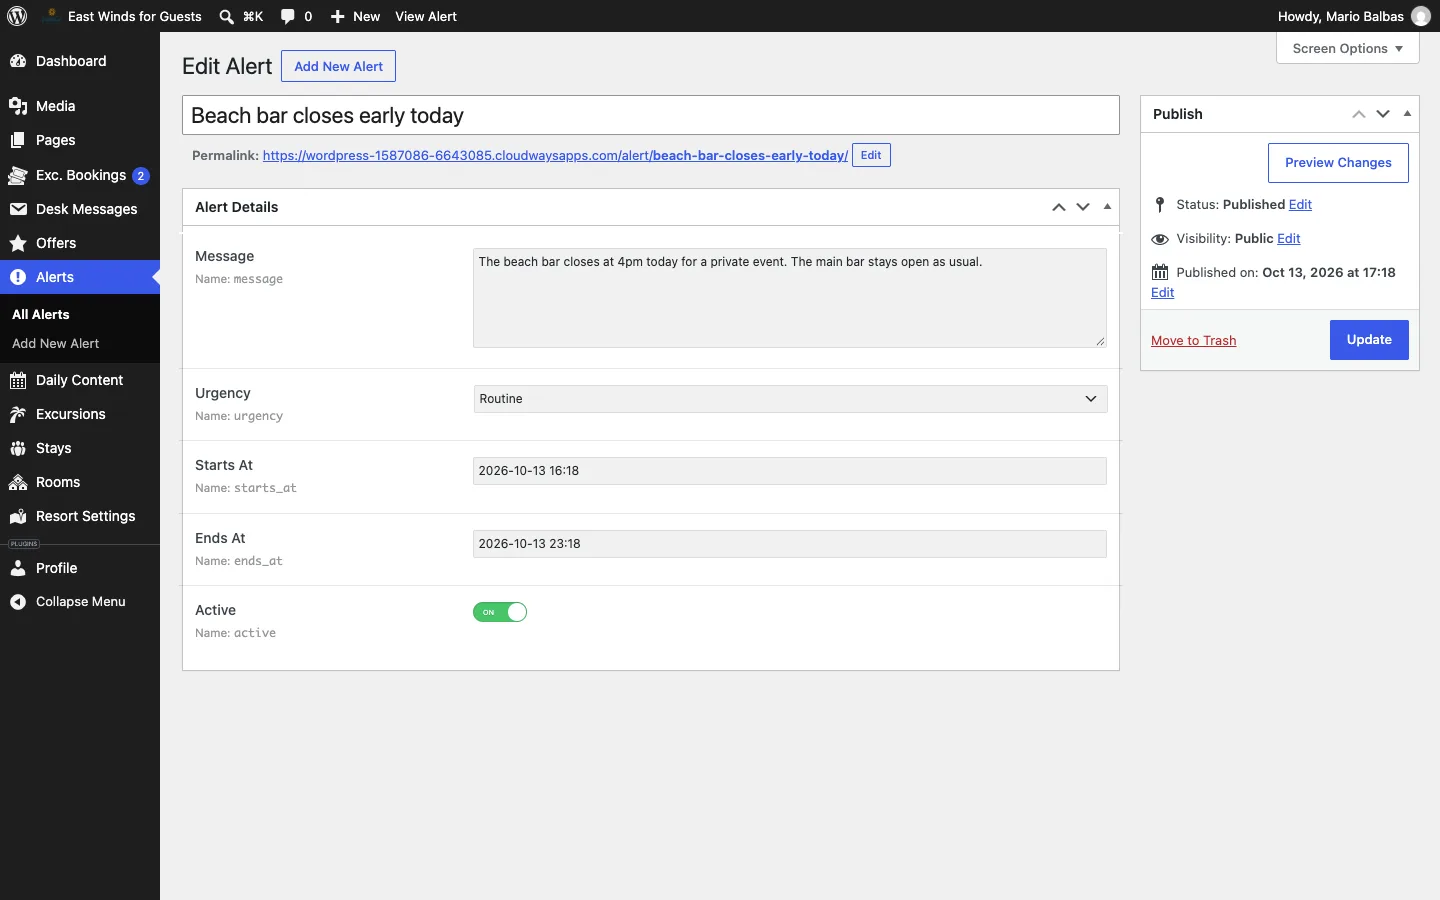
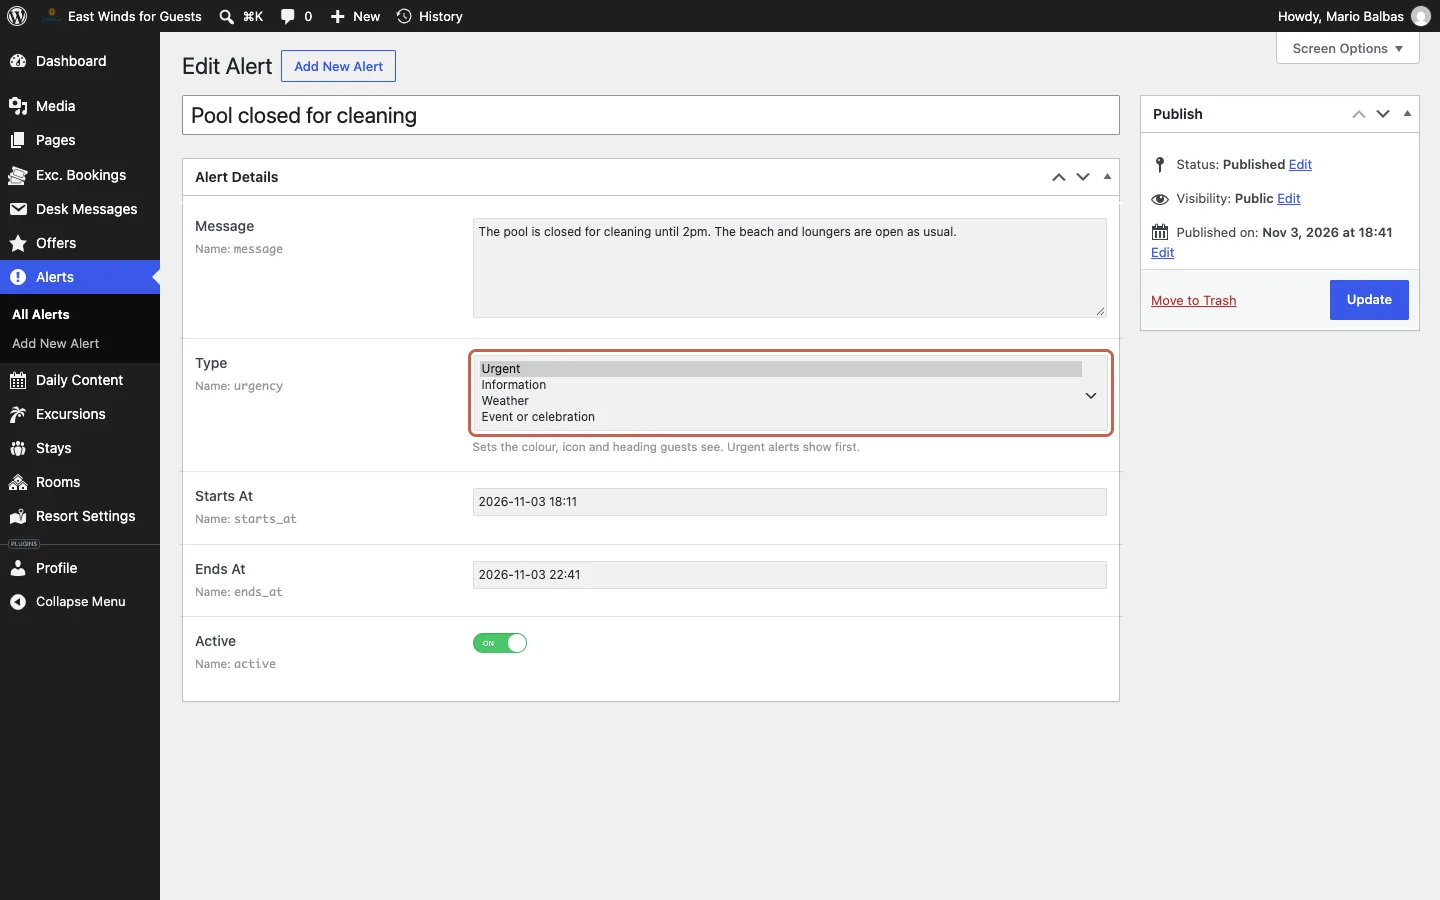
Alert types in the manual; Phase 1 modules in the project context
The Alerts section explains the new Type field (Urgent, Information, Weather, Event or celebration), what guests see for each, and that up to three show at once, urgent first. Both screenshots retaken. dev/context.md documents weather.php, alerts.php, the skeleton transitions and back-button fix in page-transition.php, and migrations.php, which applies database changes after a file sync. Both languages.

diff --git a/dev/context.md b/dev/context.md
@@ -1,7 +1,7 @@
 # East Winds Resort — Guest App: Project Context
 
 **Client:** East Winds Resort, St Lucia · **Built by:** Hook & Ladder, inc. (H&L Digital)
-**Status:** Soft release live since 27 October 2026; development continues on staging · **Last updated:** 3 November 2026
+**Status:** Soft release live since 27 October 2026; Phase 1 (weather modal, screen skeletons, alert types) on staging · **Last updated:** 3 November 2026
 **Staging (this work):** `https://wordpress-1587086-6643085.cloudwaysapps.com` (Cloudways)
 **Production (live):** `https://guest.eastwinds.com` (a separate Cloudways app; Novamira is switched off there)
 **Staff manual:** <https://staffdocs.eastwinds.com> (this repository, `hookladder/docs-for-ewr-guest`)
@@ -121,14 +121,17 @@ Notifications for new booking requests and guest messages are emailed to the fro
 | `book.php` | My Bookings (status and decline reason) |
 | `resort.php` | Resort page sections and Island guide cards, all from Resort Settings |
 | `hosts.php` | Hosts page, "Say hello" messaging, Desk Messages unread tracking |
-| `offer.php`, `shortcodes-extra.php` | Offers, menus, weather, small app shortcodes |
-| `page-transition.php` | "Loading East Winds…" screen between page loads |
+| `offer.php`, `shortcodes-extra.php` | Offers, menus (one row per section, line breaks kept), the back button, small app shortcodes |
+| `weather.php` | One cached Open-Meteo forecast (+ Marine) feeds the Today badge and the weather modal: now, next 12 hours, 5 days, sunrise and sunset, sea. Metric in the data, °F/°C chosen by the guest and remembered on the phone. On failure it shows the last good result, never invented numbers |
+| `alerts.php` | `[ew_alerts]` on Today: active alerts inside their window, at most three, urgent first, one tone per type (urgent, weather, information, event), as a swipeable carousel |
+| `page-transition.php` | Skeleton of the destination screen while the next page loads (the tab bar stays on top), one navigation per back-button tap (a fast double tap used to skip a screen), and Speculation Rules prefetch on touch |
+| `migrations.php` | One-time database changes applied on the first admin load after a file sync (see 6.6) |
 | `admin-tweaks.php` | Removes Preview / View (button, permalink box, row action, admin-bar item) for menus, alerts and offers, which have no page of their own and are only shown inside other app screens |
 | `dev-tools-guard.php` | Treats anyone without `install_plugins` as staff. Hides the Novamira admin-bar switch, refuses Novamira's admin-post / AJAX actions, and refuses staff REST writes to developer tools: Novamira, MCP and the core Abilities API (which run PHP), AI proxies, the JetEngine builder, `/wp/v2/settings`, and Elementor or plugin settings. Role-GenX leaves admin-post, AJAX and REST alone, so this file covers them |
 | `security.php` | Answers signed-out visits to `/wp-admin` and `/wp-login.php` with WordPress's plain "Access denied" (403) instead of an app page; keeps stays unlisted (out of REST, search and sitemaps; an old stay slug never redirects to a rotated token), hides usernames from visitors (REST users, author archives), sends Referrer-Policy, nosniff, X-Frame-Options and HSTS, and disables the file editors |
 
 ### 4.4 Data model (JetEngine)
-- **CPTs:** `stay`, `room`, `excursion`, `ew_exc_booking` (private), `ew_desk_message` (private), `daily-content`, `offer`, `alert`.
+- **CPTs:** `stay`, `room`, `excursion`, `ew_exc_booking` (private), `ew_desk_message` (private), `daily-content`, `offer`, `alert` (its `urgency` meta is shown to staff as **Type**: `urgent`, `routine` = Information, `weather`, `event`).
 - **Taxonomy:** `excursion_category`, **hierarchical**. *Spa & Wellness* has the treatment sub-categories; being in one of those children is what makes an item a "spa treatment".
 - **Options page:** `resort-settings` (all resort-wide content).
 - **Key meta:** stay dates, token and `staff_preview` (switcher; added to the JetEngine meta box from code, see `booking-engine.php`) on `stay`; `is_preview` on bookings and desk messages that come from a preview stay; `recurrence_mode`, `schedule_date`, `spots_available` (the capacity staff edit; legacy hidden `capacity` is only a fallback), `price`, `excursion_type` on `excursion`; `status`, `guests_count`, `decline_reason` on bookings; `content_date`, `meal` on daily content (`breakfast`, `lunch`, `afternoon_tea`, `dinner`; labels and service windows in `ew_meals()` / `ew_meals_now()` in `shortcodes-extra.php`). One menu per meal per day; Afternoon Tea shows from 11:00 alongside lunch and is served at the time set in Resort Settings. Menus are written one repeater row per section (*Dish Name* = section, *Description* = one dish per line); the description is shown with `white-space: pre-line`, so the line breaks staff type are kept.
@@ -191,7 +194,7 @@ The live version is a different Cloudways app from this staging site, so nothing
 - **Test stays:** Judith Tester, Mario Balbas and Ali Leon are kept for testing and were re-dated to 3–10 November 2026; *Judith Milne* is a stay created by the resort team. **Team Preview** is the stay the staff install on their phones to check the UI. Menus follow the resort's real entries. Re-date rather than duplicate (convention 7). The H&L administrator account used before 15 October was replaced by a new H&L team account on that date.
 
 ### 6.6 Deploying to the live app
-Development happens on staging; Ali deploys with a Cloudways **file** sync (staging → live, *Web Application Files* only, never the database, which would overwrite the resort's real content). So every change must live in the plugin's files: settings or JetEngine fields that a feature needs are created from code on first admin load (as the `staff_preview` field is), not by hand in the database.
+Development happens on staging; Ali deploys with a Cloudways **file** sync (staging → live, *Web Application Files* only, never the database, which would overwrite the resort's real content). So every change must live in the plugin's files. Whatever a feature needs in the database (a JetEngine field, an Elementor template edit) is written as a one-time migration in `migrations.php`: it runs on the first admin page load after the sync, backs up what it changes (`ew_backup_migration_*`), is idempotent, and is recorded in `ew_migrations_done`. Current migrations: the Excursion Single back button (template 183), the alert **Type** field, and the Today alert grid replaced by `[ew_alerts]` (template 234). The `staff_preview` stay field is added the same way from `booking-engine.php`.
 
 ---
 

diff --git a/kw/alerts.md b/kw/alerts.md
@@ -1,18 +1,29 @@
 # Alèt
 
-On alèt sé on ti nòt kout envité ka wè asou ékwan **Today**-la, pa égzanp pisin-lan fèmé, manjé aswè ka fèt an on lòt koté, oben on avètisman pou tan-an.
+On alèt sé on ti nòt kout envité ka wè asou ékwan **Today**-la, pa égzanp pisin-lan fèmé, manjé aswè ka fèt an on lòt koté, oben on avètisman pou tan-an. Chak alèt ni on **Type**, ki ka chwazi koulè'y, ikòn li épi tit li.
 
-<figure class="phone"><img src="assets/img/app-alert.webp" alt="On alèt asou ékwan Today app envité-a"><figcaption>On alèt kon envité ka wè'y.</figcaption></figure>
+<figure class="phone"><img src="assets/img/app-alert.webp" alt="On alèt asou ékwan Today app envité-a"><figcaption>On alèt urgent kon envité ka wè'y. Lè ni plis ki yonn, pwochen-an ka paèt asou bò-a épi envité ka glisé pou wè'y.</figcaption></figure>
 
 ## Mété on alèt
 
 1. Ay asou **Alerts → Add New Alert**.
 2. Ékwi on **tit** kout, pa égzanp “Beach bar closes early today”. Tit-la sé pou ékip-la: envité pa ka wè'y.
-3. Adan **Message**, ékwi yon oben dé fwaz: sa ki ka fèt, kilè, épi sa envité-a sa fè olyé. Sé tèks-sala envité ka wè, anba *Property notice*.
-4. Chwazi **Urgency**-la: *Urgent* pou sékirité épi bagay ki ka touché tout moun kounyé-a, *Routine* pou tout lòt bagay.
+3. Adan **Message**, ékwi yon oben dé fwaz: sa ki ka fèt, kilè, épi sa envité-a sa fè olyé. Sé tèks-sala envité ka wè, anba tit kalité li.
+4. Chwazi **Type**-la (gadé tab-la anba-a).
 5. Mété **Starts At** épi **Ends At**. Alèt-la ka paèt sèlman ant dé moman-sa.
 6. Limen **Active**, épi pézé **Publish**.
 
 <figure><img src="assets/img/alert-edit.webp" alt="Bwat on alèt"><figcaption>Ou ka ékwi on alèt.</figcaption></figure>
+
+## Kalité alèt
+
+| Type | Envité ka wè | Sèvi'y pou |
+|---|---|---|
+| **Urgent** | Kat koray, ikòn **!**, tit *Urgent notice* | Sékirité, oben on bagay ki fèmé ki ka touché tout moun kounyé-a |
+| **Information** | Kat blé, ikòn **i**, tit *Good to know* | Chanjman lè oben koté, nòt pwatik |
+| **Weather** | Kat vèt-blé, ikòn nwaj, tit *Weather* | Lapli, van oben lanmè, épi aktivité ki arété pa sa |
+| **Event or celebration** | Kat lò, ikòn zétwal, tit *Today at East Winds* | On bagay èspésyal jòdi-a: mizik, on fèt, on manjé tèm |
+
+App-la ka montwé jis **twa** alèt ansanm: sa ki urgent an prèmyé, apwé sa weather, information épi évènman. Kenbé alèt yo kout épi pa two anpil, kon sa sa ki urgent ka paèt pi klè.
 
 ?> **Arété on alèt pi bonnè** Tenn **Active** épi pézé Update. Kenbé alèt-la: lòt fwa ou sèlman bizwen chanjé dat yo épi limen'y ankò.

diff --git a/en/alerts.md b/en/alerts.md
@@ -1,18 +1,29 @@
 # Alerts
 
-An alert is a short notice shown to guests on the **Today** screen, for example a closed pool, a change of venue for dinner, or a weather warning.
+An alert is a short notice shown to guests on the **Today** screen, for example a closed pool, a change of venue for dinner, a weather warning or live music tonight. Each alert has a **Type**, which sets its colour, icon and heading.
 
-<figure class="phone"><img src="assets/img/app-alert.webp" alt="An alert on the Today screen of the guest app"><figcaption>An alert as guests see it.</figcaption></figure>
+<figure class="phone"><img src="assets/img/app-alert.webp" alt="An alert on the Today screen of the guest app"><figcaption>An urgent alert as guests see it. When there is more than one, the next one peeks at the edge and guests swipe to see it.</figcaption></figure>
 
 ## Post an alert
 
 1. Go to **Alerts → Add New Alert**.
 2. Write a short **title**, for example “Beach bar closes early today”. The title is for the team: guests do not see it.
-3. In **Message**, write one or two sentences: what happens, when, and what the guest can do instead. This is the text guests see, under *Property notice*.
-4. Choose the **Urgency**: *Urgent* for safety and things that affect everyone right now, *Routine* for everything else.
+3. In **Message**, write one or two sentences: what happens, when, and what the guest can do instead. This is the text guests see, under the heading of its type.
+4. Choose the **Type** (see the table below).
 5. Set **Starts At** and **Ends At**. The alert only shows between those two moments.
 6. Turn **Active** on, and press **Publish**.
 
 <figure><img src="assets/img/alert-edit.webp" alt="The fields of an alert"><figcaption>An alert being written.</figcaption></figure>
+
+## Alert types
+
+| Type | Guests see | Use it for |
+|---|---|---|
+| **Urgent** | Coral card, **!** icon, heading *Urgent notice* | Safety, or a closure that affects everyone right now |
+| **Information** | Blue card, **i** icon, heading *Good to know* | Changes of time or place, practical notices |
+| **Weather** | Teal card, cloud icon, heading *Weather* | Rain, wind or sea conditions, and activities paused because of them |
+| **Event or celebration** | Gold card, star icon, heading *Today at East Winds* | Something special today: live music, a party, a themed dinner |
+
+The app shows up to **three** alerts at a time: urgent ones first, then weather, information and events. Keep alerts few and short, so the urgent ones stand out.
 
 ?> **Stop an alert early** Turn **Active** off and press Update. Keep the alert: next time you only need to change the dates and switch it on again.
